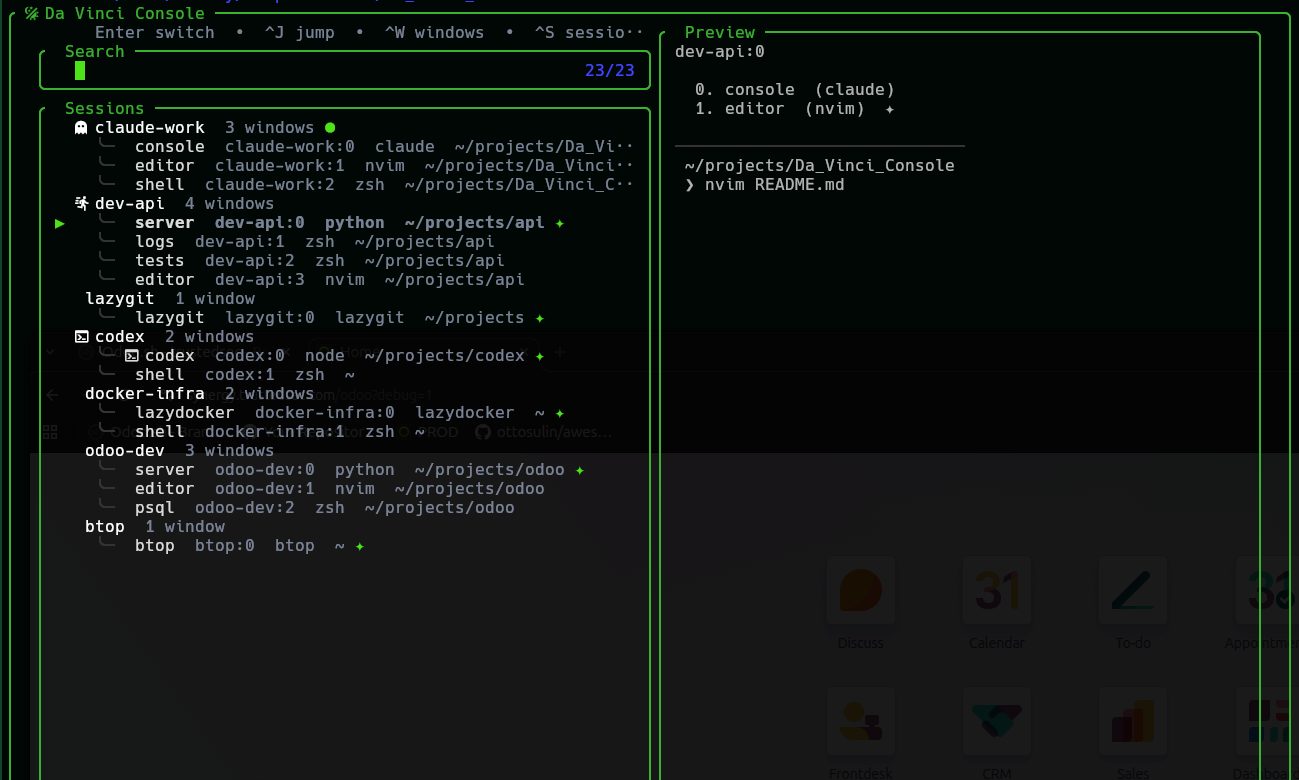
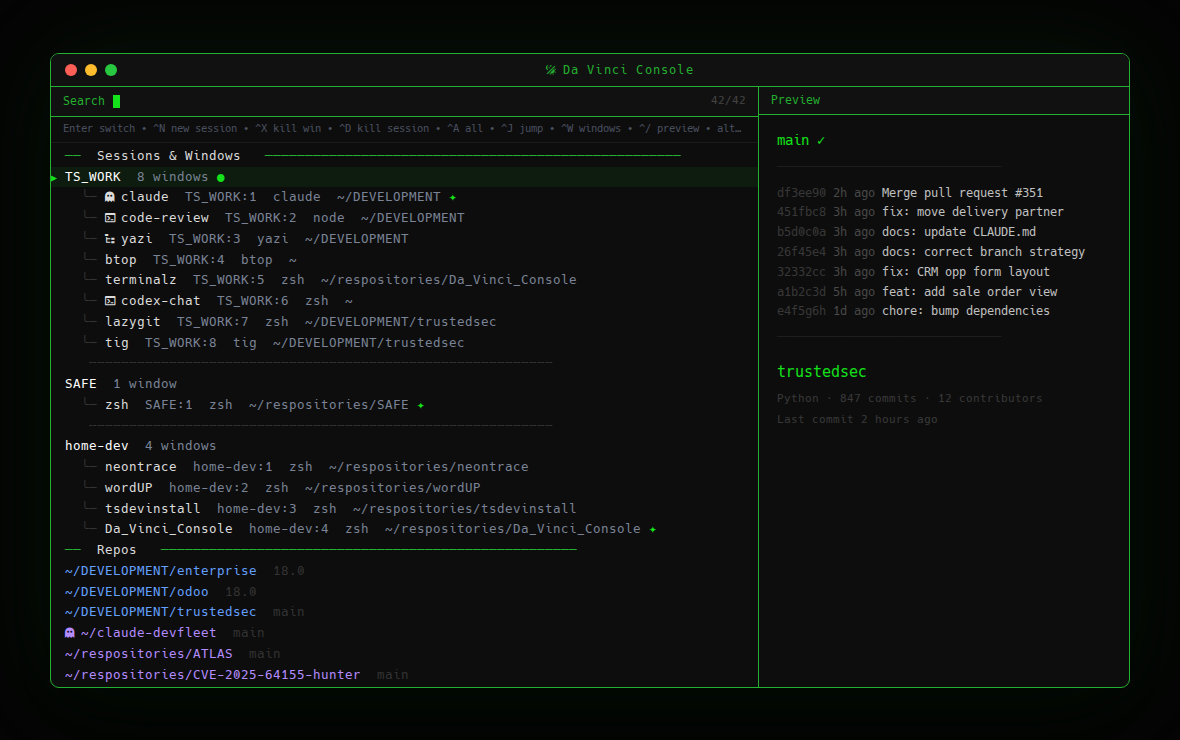
docs: new screenshot and updated README with all current features
- New screenshot showing three-section unified view with git branches,
  language icons, work/personal colour coding, and git preview pane
- README fully rewritten to document all features added since initial release:
  repos section, current dir section, ctrl-n/ctrl-x, SESH_REPO_DIRS,
  SESH_WORK_DIRS, lang icons, dedup, shell-aware installer

diff --git a/README.md b/README.md
@@ -1,6 +1,6 @@
 #  Da Vinci Console
 
-A tmux session + window picker built on [sesh](https://github.com/joshmedeski/sesh) and [fzf](https://github.com/junegunn/fzf) — with live pane previews, window-tree navigation, and one-key project jumping via zoxide.
+A tmux session + window picker built on [sesh](https://github.com/joshmedeski/sesh) and [fzf](https://github.com/junegunn/fzf) — three sections in one view: live sessions & windows, auto-discovered git repos, and current directory. Git previews, smart dedup, language icons, and one-key project jumping.
 
 ![Da Vinci Console screenshot](assets/screenshot.png)
 
@@ -8,13 +8,21 @@ A tmux session + window picker built on [sesh](https://github.com/joshmedeski/se
 
 ## Features
 
-- **Session tree view** — sessions with their windows nested underneath, icons matched by command/name
+- **Three-section unified view** — Sessions & Windows, Repos, and Current Dir all visible at once, no mode switching needed
+- **Auto-discovered repos** — scans `~/` for git repos automatically; pin specific dirs via `SESH_REPO_DIRS`
+- **Git branch inline** — current branch shown next to every repo entry
+- **Language icons** — detects Rust, Node, Go, Python, PHP, Java, Ruby, C++ by manifest file
+- **Color-coded repos** — work dirs (blue) vs personal dirs (purple), configurable via `SESH_WORK_DIRS`
+- **Smart dedup** — repos already open as sessions show `●` in green and switch directly to the existing session
+- **Git preview** — branch, dirty status, last 8 commits, and onefetch stats in the preview pane
 - **Live pane previews** — see the last 20 lines of any session or window without switching
-- **Window flat view** (`Ctrl-W`) — all windows across all sessions in one list
-- **Jump mode** (`Ctrl-J`) — browse sesh/zoxide directories; selecting one creates a new session automatically via `sesh connect`
-- **Kill sessions** (`Ctrl-D`) — delete a session without leaving the picker
-- **Fully themeable** — override colors with environment variables, no script editing needed
-- **Nerd Font icons** — matched by session/window name and running command
+- **`Ctrl-N` new session** — create a named tmux session at any repo path and jump straight to it
+- **`Ctrl-X` kill window** — kill individual windows without leaving the picker
+- **`Ctrl-D` kill session** — delete sessions on the fly
+- **Jump mode** (`Ctrl-J`) — sesh configured dirs + zoxide frecency, split into labelled sections
+- **Windows view** (`Ctrl-W`) — all windows across all sessions grouped by session
+- **Shell-aware installer** — detects bash/zsh/fish and shows the right config syntax
+- **Nerd Font icons** — matched by session name, window name, and running command
 
 ---
 
@@ -28,6 +36,8 @@ A tmux session + window picker built on [sesh](https://github.com/joshmedeski/se
 | [zoxide](https://github.com/ajeetdsouza/zoxide) | any       | Powers jump mode directory list             |
 | A [Nerd Font](https://www.nerdfonts.com/)       | any       | For icons to render correctly               |
 
+**Optional:** [onefetch](https://github.com/o2sh/onefetch) — adds rich repo stats to the git preview pane.
+
 > **fzf 0.58+ is required.** The bordered input/list/preview panel labels were introduced in that release. Earlier versions will error.
 
 ---
@@ -35,15 +45,12 @@ A tmux session + window picker built on [sesh](https://github.com/joshmedeski/se
 ## Install
 
 ```bash
-git clone https://github.com/smiley/Da_Vinci_Console ~/.config/tmux/da-vinci-console
-chmod +x ~/.config/tmux/da-vinci-console/da-vinci-console.sh
-```
-
-Or use the install script to copy the script to `~/.config/tmux/`:
-
-```bash
+git clone https://github.com/purehate/Da_Vinci_Console
+cd Da_Vinci_Console
 ./install.sh
 ```
+
+The installer detects your shell (bash/zsh/fish), shows the correct tmux bind snippet, and checks all dependencies.
 
 ---
 
@@ -52,43 +59,65 @@ Or use the install script to copy the script to `~/.config/tmux/`:
 Add to your `tmux.conf`:
 
 ```tmux
-bind s run-shell "bash ~/.config/tmux/da-vinci-console.sh"
+bind s display-popup -B -x C -y C -w 72% -h 72% -s "bg=default" -E "~/.config/tmux/sesh_picker.sh"
 ```
 
-Or see [`extras/tmux.conf`](extras/tmux.conf) for the full snippet.
-
-Invoke with `<prefix> s`.
+Or see [`extras/tmux.conf`](extras/tmux.conf) for the full snippet. Invoke with `<prefix> s`.
 
 ---
 
 ## Keybindings
 
-| Key                 | Action                                                   |
-| ------------------- | -------------------------------------------------------- |
-| `Enter`             | Switch to selected session or window                     |
-| `Ctrl-J`            | Jump mode — browse sesh/zoxide dirs, create new sessions |
-| `Ctrl-W`            | Windows view — all windows across all sessions           |
-| `Ctrl-S`            | Sessions view — back to default tree view                |
-| `Ctrl-D`            | Kill the selected session                                |
-| `Ctrl-/`            | Toggle preview pane                                      |
-| `Alt-↑` / `Alt-↓`   | Scroll inside preview                                    |
-| `Tab` / `Shift-Tab` | Move down / up                                           |
-| `Esc` / `Ctrl-C`    | Exit without switching                                   |
+| Key                 | Action                                               |
+| ------------------- | ---------------------------------------------------- |
+| `Enter`             | Switch to selected session, window, or repo          |
+| `Ctrl-N`            | Create a new named session at the selected repo path |
+| `Ctrl-X`            | Kill the selected window                             |
+| `Ctrl-D`            | Kill the selected session                            |
+| `Ctrl-A`            | Return to the default all-sections view              |
+| `Ctrl-J`            | Jump mode — sesh configured dirs + zoxide frecency   |
+| `Ctrl-W`            | Windows view — all windows across all sessions       |
+| `Ctrl-/`            | Toggle preview pane                                  |
+| `Alt-↑` / `Alt-↓`   | Scroll inside preview                                |
+| `Tab` / `Shift-Tab` | Move down / up                                       |
+| `Esc` / `Ctrl-C`    | Exit without switching                               |
 
 ---
 
-## Theming
+## Configuration
 
-Colors are controlled by environment variables. Set them in your shell profile or tmux config:
+### Repo directories
 
-| Variable           | Default              | Description                                  |
-| ------------------ | -------------------- | -------------------------------------------- |
-| `DVC_COLOR_ACTIVE` | `#14E21A`            | Active indicator, highlights, pointer        |
-| `DVC_COLOR_BORDER` | `#24b030`            | Border and label color                       |
-| `DVC_COLOR_DIM`    | `#333333`            | Dim separator lines                          |
-| `DVC_TITLE`        | ` Da Vinci Console` | Border label text (supports Nerd Font icons) |
+Without any config, the picker auto-scans `~/` up to 3 levels deep for git repos, skipping hidden dirs, `node_modules`, `.venv`, `vendor`, `target`, etc.
 
-### Example — Catppuccin Mocha
+To pin specific directories (faster, explicit):
+
+```bash
+# bash / zsh — add to ~/.bashrc or ~/.zshrc
+export SESH_REPO_DIRS="~/DEVELOPMENT:~/work:~/personal"
+
+# fish — add to ~/.config/fish/config.fish
+set -gx SESH_REPO_DIRS "$HOME/DEVELOPMENT:$HOME/work:$HOME/personal"
+```
+
+### Work vs personal colour
+
+Repos under work dirs render in blue; everything else in purple. Default work dir is `~/DEVELOPMENT`.
+
+```bash
+export SESH_WORK_DIRS="~/DEVELOPMENT:~/client-work"
+```
+
+### Theming
+
+| Variable           | Default              | Description                           |
+| ------------------ | -------------------- | ------------------------------------- |
+| `DVC_COLOR_ACTIVE` | `#14E21A`            | Active indicator, highlights, pointer |
+| `DVC_COLOR_BORDER` | `#24b030`            | Border and label colour               |
+| `DVC_COLOR_DIM`    | `#333333`            | Dim separator lines                   |
+| `DVC_TITLE`        | ` Da Vinci Console` | Border label text                     |
+
+#### Catppuccin Mocha
 
 ```bash
 export DVC_COLOR_ACTIVE="#a6e3a1"
@@ -97,7 +126,7 @@ export DVC_COLOR_DIM="#45475a"
 export DVC_TITLE=" Da Vinci Console"
 ```
 
-### Example — Tokyo Night
+#### Tokyo Night
 
 ```bash
 export DVC_COLOR_ACTIVE="#9ece6a"
@@ -110,32 +139,22 @@ export DVC_TITLE=" Da Vinci Console"
 
 ## Adding Icons
 
-Icons are matched in the `icon_for()` function. Edit `da-vinci-console.sh` to add your own:
+Icons are matched in `icon_for()`. Edit `da-vinci-console.sh` to add your own:
 
 ```bash
 icon_for() {
     local n="${1,,}"; n="${n##*/}"
     case "$n" in
         myproject*) echo "" ;;  # add your own here
-        ...
+        # ...
     esac
 }
 ```
 
 ---
 
-## How Jump Mode Works
-
-`Ctrl-J` loads the output of `sesh list -c -z`, which combines:
-
-- Sessions configured in your `sesh.toml`
-- Your most-visited directories from zoxide
-
-Selecting an entry calls `sesh connect <path>`. If a tmux session already exists for that directory, it switches to it. Otherwise, sesh creates a new session there and switches to it automatically.
-
----
-
 ## Acknowledgements
 
-- [sesh](https://github.com/joshmedeski/sesh) by Josh Medeski — the session manager powering jump mode
+- [sesh](https://github.com/joshmedeski/sesh) by Josh Medeski — session manager powering jump mode
 - [fzf](https://github.com/junegunn/fzf) by Junegunn Choi — the fuzzy finder engine
+- [onefetch](https://github.com/o2sh/onefetch) — repo stats in the preview pane
